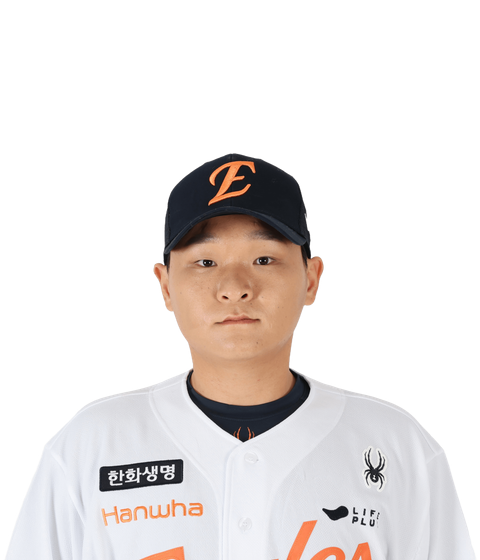
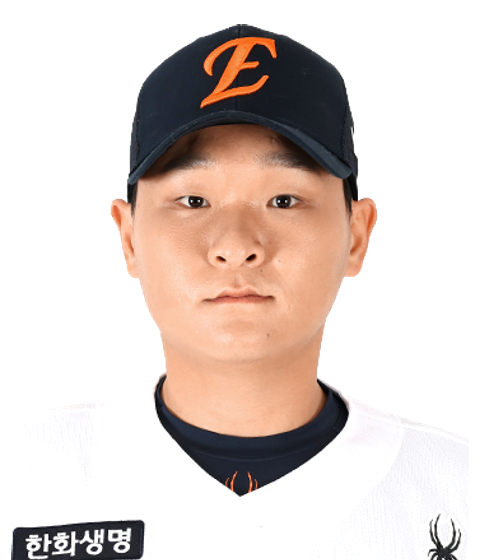
feat: update Hanwha transparent PNG portraits (김태연, 채은성, 오재원)

diff --git a/src/data/licensedRealPortraits.ts b/src/data/licensedRealPortraits.ts
@@ -3237,6 +3237,13 @@ export const BUNDLED_REAL_PLAYER_PORTRAITS: Record<string, BundledRealPortraitEn
     "sourceUrl": "local://portraits/kbo/KIA/김호령.png",
     "teamFolder": "KIA"
   },
+  "KBO-PL-757217": {
+    "url": "/portraits/kbo/HH/오재원.png",
+    "credit": "사용자 등록 공식 프로필",
+    "license": "verified-custom",
+    "sourceUrl": "local://portraits/kbo/HH/오재원.png",
+    "teamFolder": "HH"
+  },
   "KBO-PL-760342": {
     "url": "/portraits/kbo/KIA/정현창.png",
     "credit": "사용자 등록 공식 프로필",
@@ -4524,6 +4531,7 @@ export const KBO_OFFICIAL_ID_TO_PORTRAIT_PID: Record<string, string> = {
   "56712": "KBO-PL-888290",
   "56719": "KBO-PL-812457",
   "56724": "KBO-PL-189157",
+  "56754": "KBO-PL-757217",
   "56769": "KBO-PL-265990",
   "56797": "KBO-PL-373739",
   "56823": "KBO-PL-954611",
@@ -4818,6 +4826,7 @@ export const KBO_OFFICIAL_ID_TO_PORTRAIT_PID: Record<string, string> = {
   "2026-HH-5": "KBO-PL-145123",
   "2026-HH-50": "KBO-PL-134486",
   "2026-HH-51": "KBO-PL-969429",
+  "2026-HH-54": "KBO-PL-757217",
   "2026-HH-55": "KBO-PL-851974",
   "2026-HH-57": "KBO-PL-964267",
   "2026-HH-59": "KBO-PL-404638",
